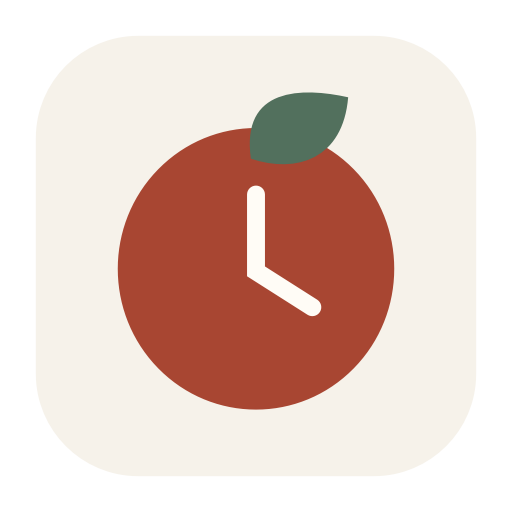
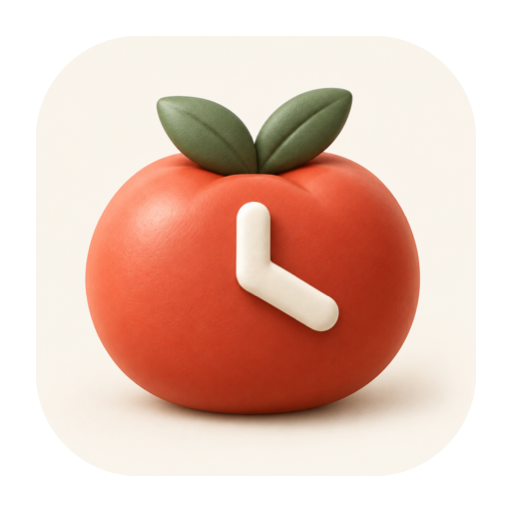
采用柔和立体的番茄小记应用图标

diff --git a/Scripts/make-icon.swift b/Scripts/make-icon.swift
@@ -1,41 +1,45 @@
 import AppKit
 import Foundation
 
+guard CommandLine.arguments.count == 2 else {
+    fputs("用法：swift Scripts/make-icon.swift <输出 iconset 目录>\n", stderr)
+    exit(1)
+}
+
+let sourceURL = URL(fileURLWithPath: #filePath)
+    .deletingLastPathComponent()
+    .deletingLastPathComponent()
+    .appendingPathComponent("Packaging/AppIcon.png")
+guard let sourceImage = NSImage(contentsOf: sourceURL),
+      sourceImage.size.width > 0,
+      sourceImage.size.width == sourceImage.size.height else {
+    fputs("无法读取正方形图标原图：\(sourceURL.path)\n", stderr)
+    exit(1)
+}
+
 let destination = URL(fileURLWithPath: CommandLine.arguments[1], isDirectory: true)
 try FileManager.default.createDirectory(at: destination, withIntermediateDirectories: true)
 
 func render(_ pixels: Int, name: String) throws {
     let side = CGFloat(pixels)
+    let canvas = NSRect(x: 0, y: 0, width: side, height: side)
     let bitmap = NSBitmapImageRep(bitmapDataPlanes: nil, pixelsWide: pixels, pixelsHigh: pixels,
                                   bitsPerSample: 8, samplesPerPixel: 4, hasAlpha: true,
                                   isPlanar: false, colorSpaceName: .deviceRGB, bytesPerRow: 0, bitsPerPixel: 0)!
     NSGraphicsContext.saveGraphicsState()
-    NSGraphicsContext.current = NSGraphicsContext(bitmapImageRep: bitmap)
-    NSColor(srgbRed: 0.965, green: 0.949, blue: 0.917, alpha: 1).setFill()
-    NSBezierPath(roundedRect: NSRect(x: side * 0.07, y: side * 0.07, width: side * 0.86, height: side * 0.86),
-                 xRadius: side * 0.20, yRadius: side * 0.20).fill()
-    NSColor(srgbRed: 0.659, green: 0.275, blue: 0.196, alpha: 1).setFill()
-    NSBezierPath(ovalIn: NSRect(x: side * 0.23, y: side * 0.20, width: side * 0.54, height: side * 0.55)).fill()
-    NSColor(srgbRed: 0.322, green: 0.439, blue: 0.365, alpha: 1).setFill()
-    let leaf = NSBezierPath()
-    leaf.move(to: NSPoint(x: side * 0.49, y: side * 0.69))
-    leaf.curve(to: NSPoint(x: side * 0.68, y: side * 0.81),
-               controlPoint1: NSPoint(x: side * 0.47, y: side * 0.83),
-               controlPoint2: NSPoint(x: side * 0.59, y: side * 0.83))
-    leaf.curve(to: NSPoint(x: side * 0.49, y: side * 0.69),
-               controlPoint1: NSPoint(x: side * 0.67, y: side * 0.69),
-               controlPoint2: NSPoint(x: side * 0.58, y: side * 0.66))
-    leaf.fill()
-    NSColor(srgbRed: 1, green: 0.988, blue: 0.965, alpha: 1).setStroke()
-    let hands = NSBezierPath()
-    hands.lineWidth = side * 0.035
-    hands.lineCapStyle = .round
-    hands.move(to: NSPoint(x: side * 0.50, y: side * 0.62))
-    hands.line(to: NSPoint(x: side * 0.50, y: side * 0.47))
-    hands.line(to: NSPoint(x: side * 0.61, y: side * 0.40))
-    hands.stroke()
-    NSGraphicsContext.restoreGraphicsState()
-    try bitmap.representation(using: .png, properties: [:])!.write(to: destination.appendingPathComponent(name))
+    defer { NSGraphicsContext.restoreGraphicsState() }
+    let context = NSGraphicsContext(bitmapImageRep: bitmap)!
+    NSGraphicsContext.current = context
+    context.imageInterpolation = .high
+    context.cgContext.clear(canvas)
+
+    // 原图保留完整材质，统一裁出圆角与透明边距，避免抠图杂点进入各尺寸图标。
+    let iconBounds = canvas.insetBy(dx: side * 0.07, dy: side * 0.07)
+    NSBezierPath(roundedRect: iconBounds, xRadius: side * 0.20, yRadius: side * 0.20).addClip()
+    sourceImage.draw(in: iconBounds, from: .zero, operation: .copy, fraction: 1)
+
+    try bitmap.representation(using: .png, properties: [:])!
+        .write(to: destination.appendingPathComponent(name), options: .atomic)
 }
 
 for size in [16, 32, 128, 256, 512] {

diff --git a/docs/assets/app-icon-design.md b/docs/assets/app-icon-design.md
@@ -1,0 +1,38 @@
+# 番茄小记图标
+
+采用初稿 C：柔和立体的陶土番茄、鼠尾草绿双叶与奶油白指针，配暖白底。
+
+- 设计原图：`Packaging/AppIcon.png`，由内置 image_gen 生成；保留完整正方形底图，避免自动抠图留下杂点。
+- 应用图标：`Scripts/make-icon.swift` 读取原图，高质量缩放后统一应用圆角和 7% 透明边距，生成 16–1024 px 的标准 iconset；现有打包流程将其转换为 `AppIcon.icns`。
+- README 预览：`docs/assets/app-icon.png`，使用同一流程的 512 px 输出。
+- 菜单栏状态符号沿用原有实现，以便清楚区分运行、暂停与休息。
+
+更新预览与应用图标：
+
+```bash
+swift Scripts/make-icon.swift build/AppIcon.iconset
+cp build/AppIcon.iconset/icon_256x256@2x.png docs/assets/app-icon.png
+Scripts/build-app.sh release --universal
+```
+
+## 最终生图提示词
+
+输入参考为本次图标探索图中的左下 C。使用内置 image_gen，`transparent_background: false`；圆角和透明边距由构建脚本统一处理。
+
+```text
+Use case: precise-object-edit.
+Asset type: opaque square SOURCE ARTWORK for a native macOS app icon. Native packaging will apply the rounded-square mask later.
+Input reference: the four-concept comparison board. The selected design is ONLY THE BOTTOM LEFT icon C.
+
+Create ONE isolated high-resolution SQUARE source illustration that faithfully matches C: a plump softly rounded matte terracotta tomato sculpture, two sage-green clay leaves meeting at the top, and short thick rounded raised ivory clock hands at approximately 12:20 on the tomato front. Soft warm diffuse light from upper-left, gentle natural contact shadow under the tomato, matte ceramic/clay material, quiet tactile refinement. Keep C's exact simple proportions, warm calm charm, and soft 3D style. No face, no words, no ticks. Do not use A, B or D.
+
+IMPORTANT SOURCE-ART FORMAT:
+- The ENTIRE square image, corner to corner and edge to edge, is an OPAQUE warm ivory backdrop (#F6F1E8), softly shaded only immediately under the tomato.
+- NO rounded square base or tile. NO tile border, raised edge, bevel, plinth or frame. NO exterior gray backdrop. NO transparency or alpha cutout. This is a full-bleed source painting, NOT a mockup of a rounded app icon.
+- The tomato together with the leaves occupies roughly 76% of the square width and 80% of square height. Generous clean ivory space all around. The tip of the leaves is at roughly 10% image height and bottom of tomato at 89% height. Keep the tomato-and-leaves optically centered as one unified symbol. No extreme closeup.
+- Tomato is roughly spherical but subtly squashed with rounded shoulders, warm muted red-orange, not shiny plastic and not a glossy photograph of food. Leaves have very understated sculptural veins, not botanical detail.
+- The ivory clock-hand mark is clear and simple, with one vertical hand pointing upward and a shorter hand pointing down-right, both thick and smoothly joined, softly raised like a small ceramic inlay. Soft contact shadows, no harsh specular highlights.
+- The composition and geometry must remain very simple and legible at reduced app-icon sizes.
+
+Single square full-bleed artwork only. No A/B/C/D label, no typography, no other icon, no comparison board, no devices, no mockup.
+```
